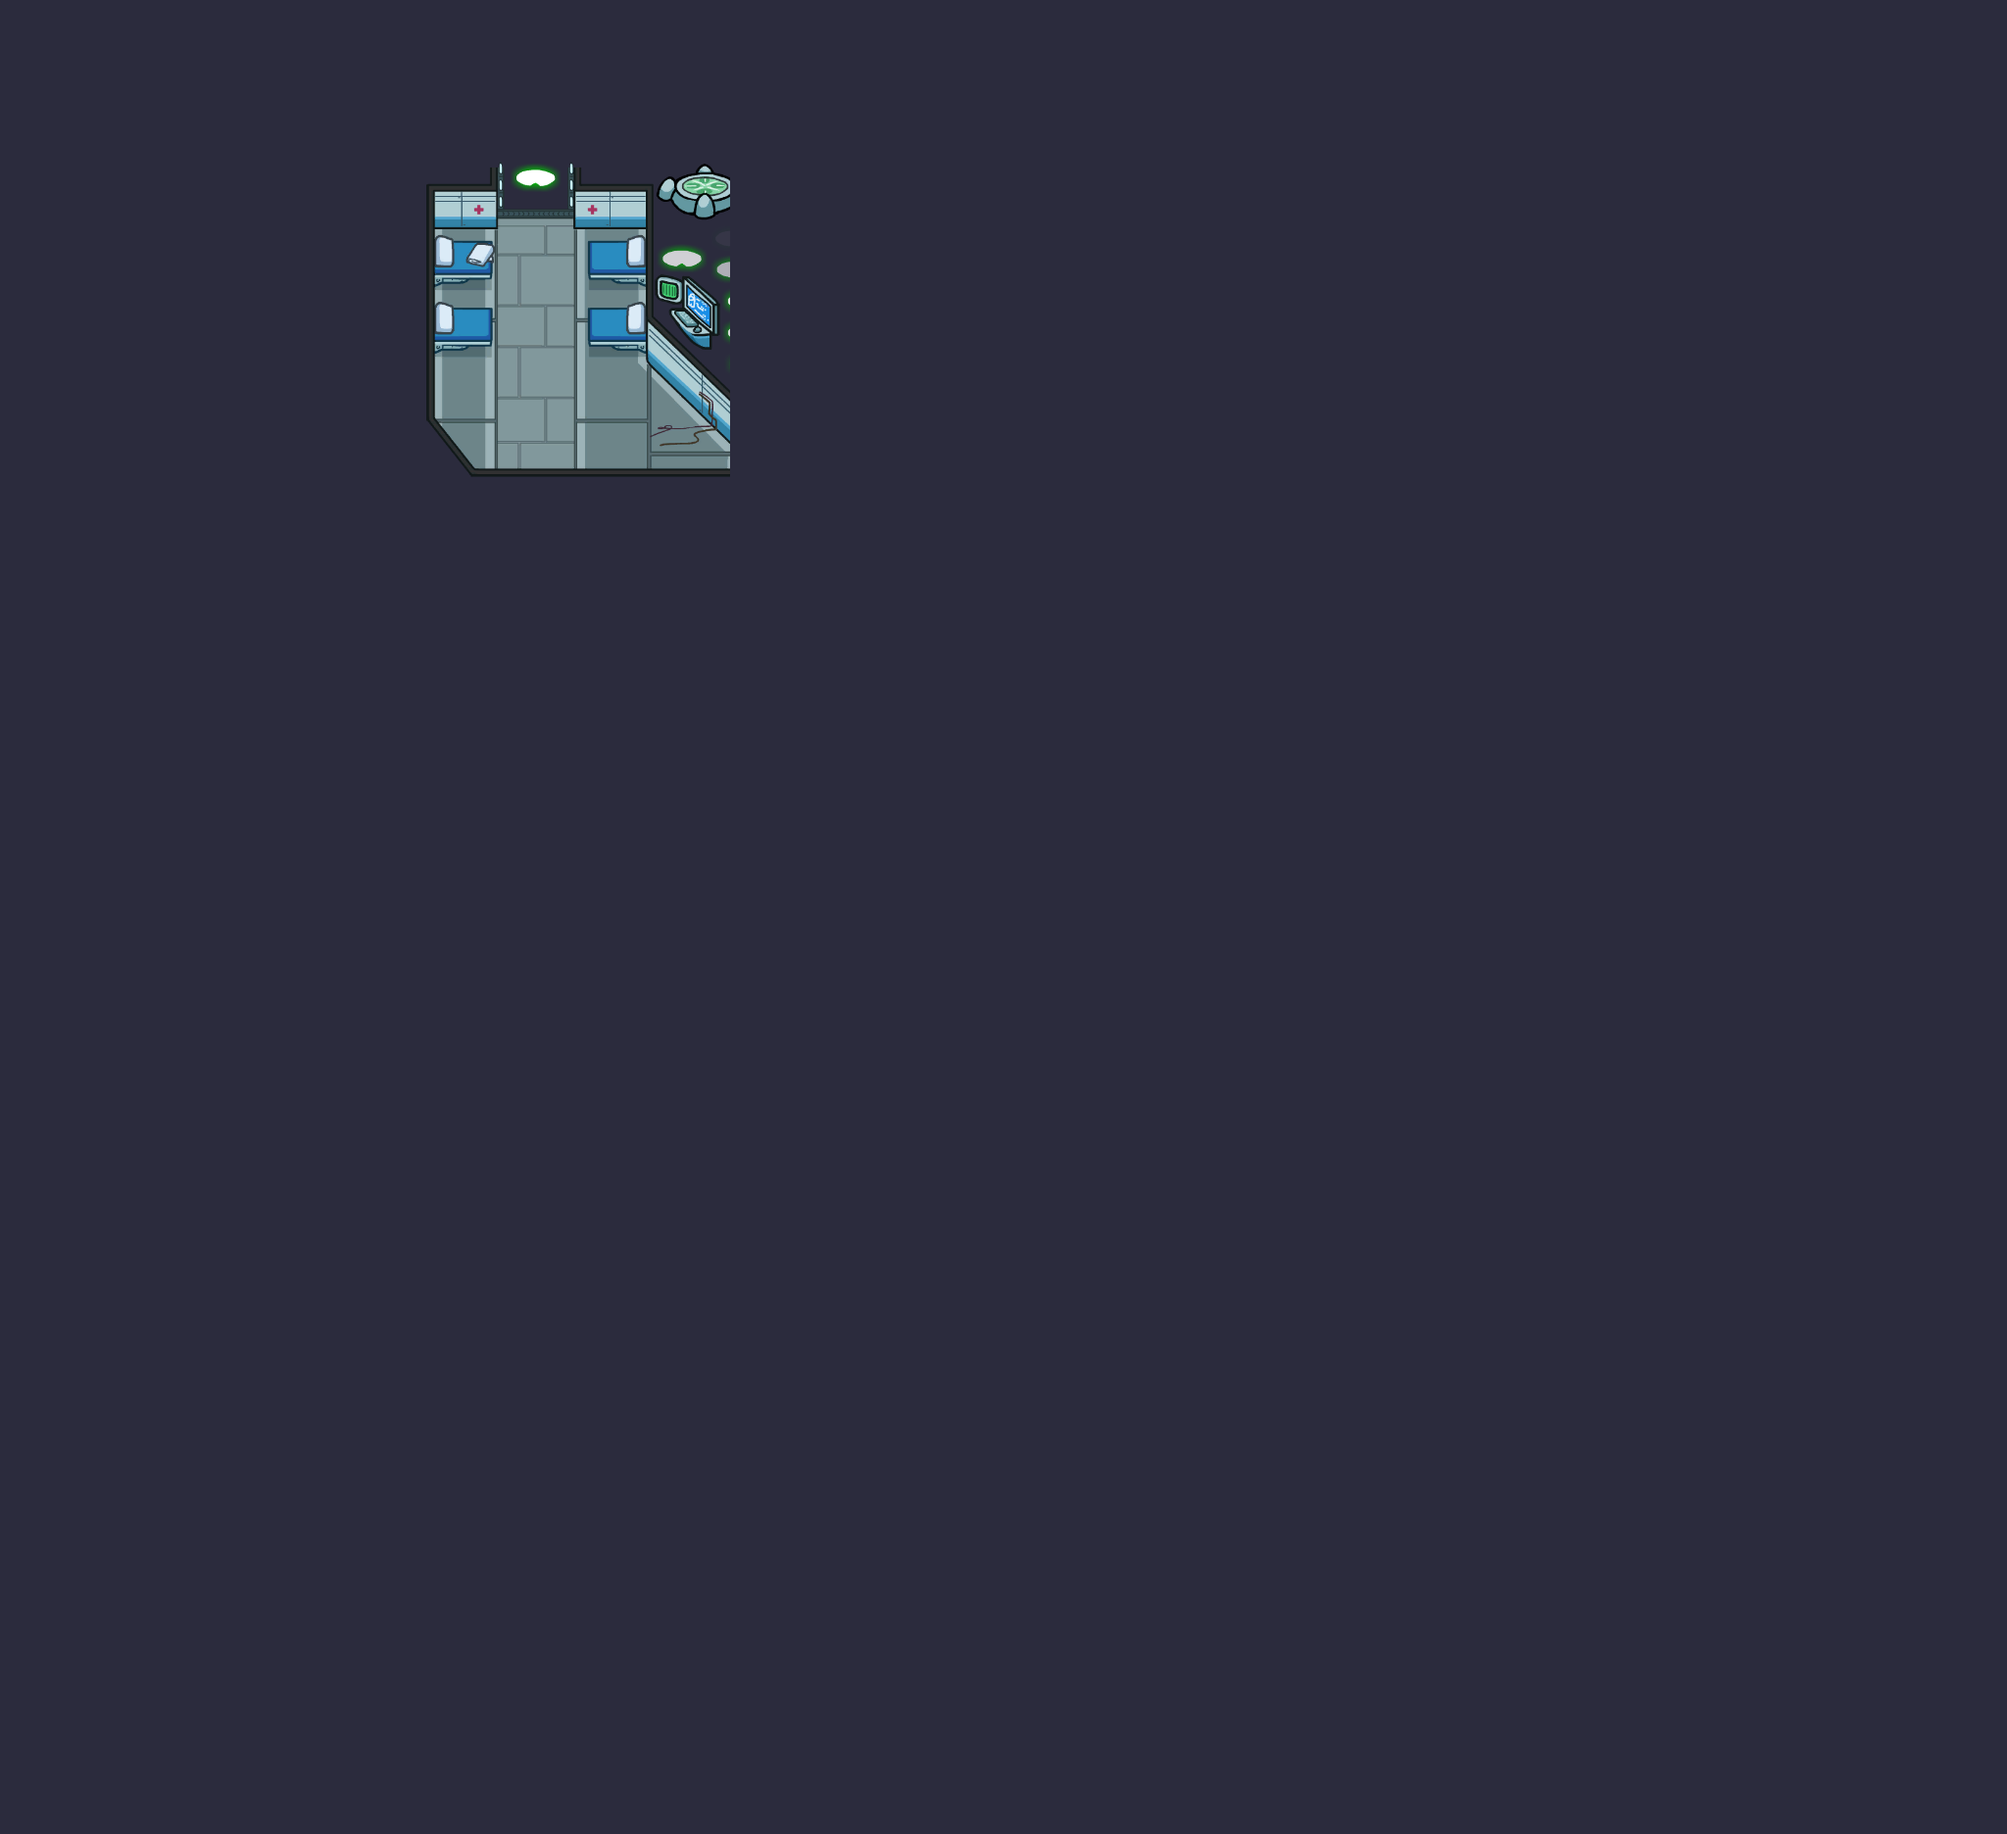
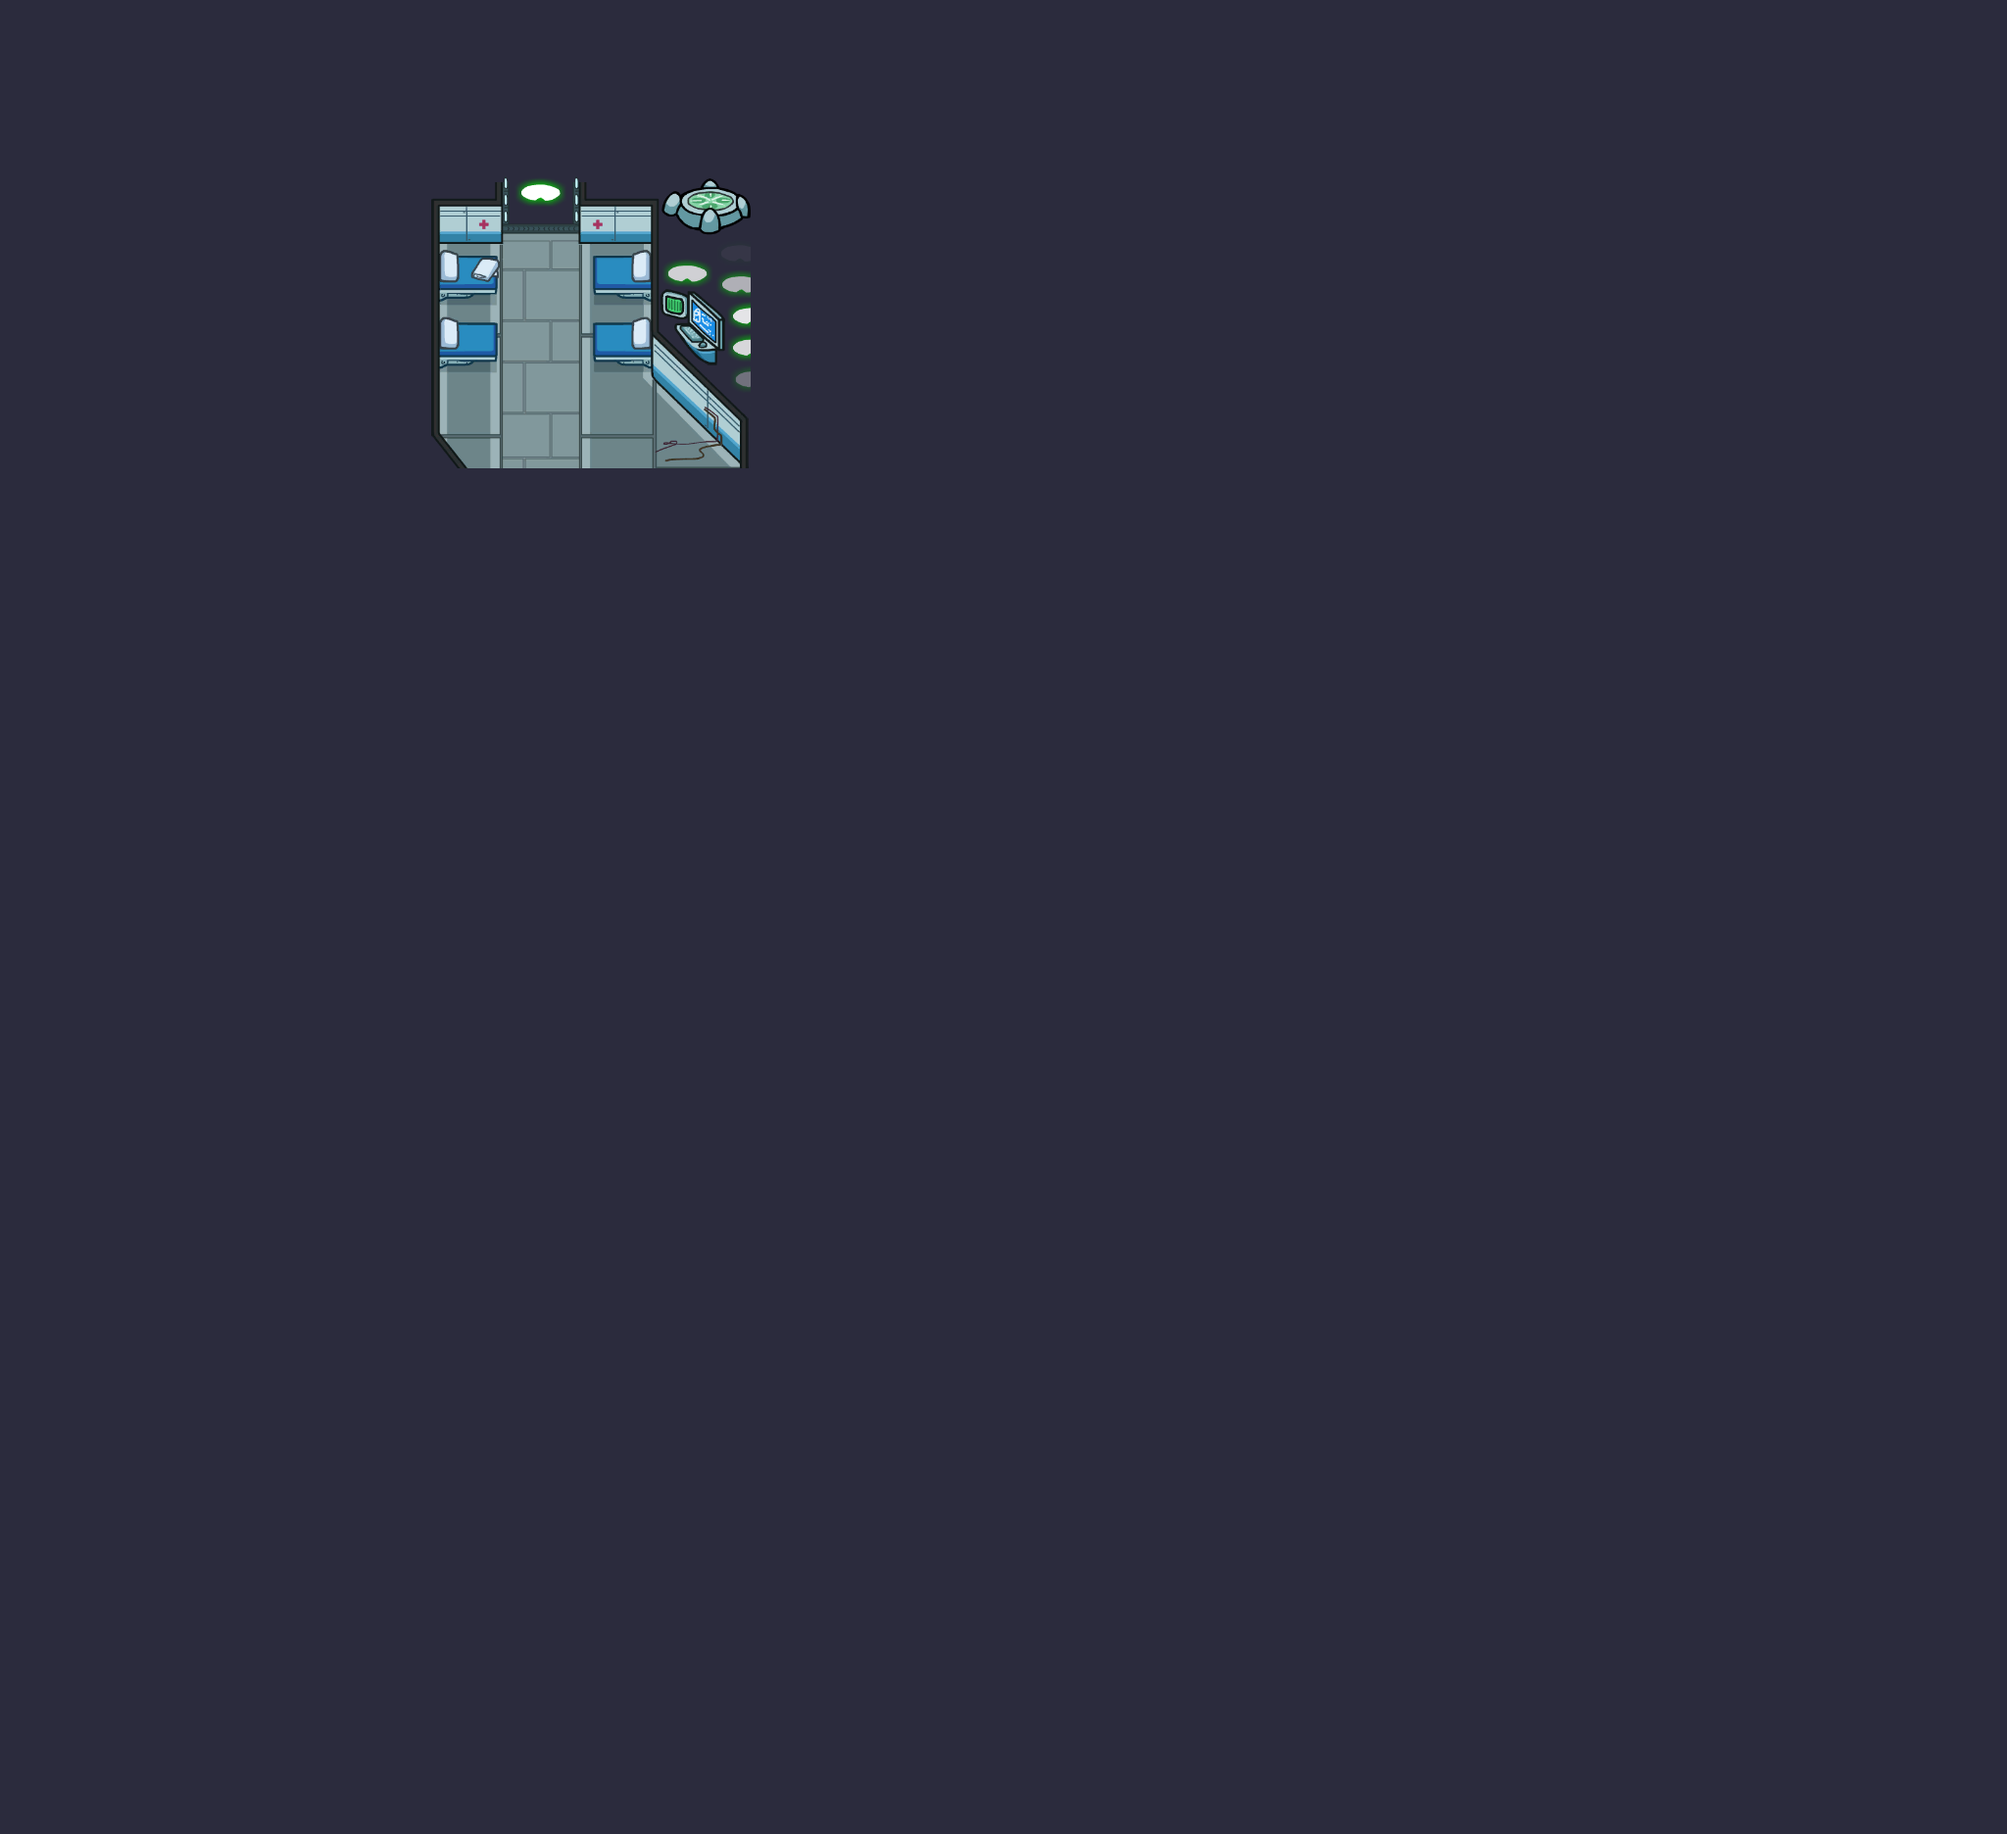
Update asset images and enhance layer configurations. Replaced multiple PNG files including collision-mask.png, skeld-map.png, and space-overlay.png. Adjusted layer properties in build-composite-map.ts for better alignment with collision geometry, including new Admin room layer and refined room dime

Changed region(s): [[0.1875, 0.0929, 0.375, 0.2788]]

diff --git a/scripts/build-composite-map.ts b/scripts/build-composite-map.ts
@@ -11,7 +11,7 @@ import fs from 'fs';
 import path from 'path';
 import { fileURLToPath } from 'url';
 import { PNG } from 'pngjs';
-import { MAP_W as CANVAS_W, MAP_H as CANVAS_H, ROOM_REGION_RECTS, type Rect } from '../shared/skeldGeometry';
+import { MAP_W as CANVAS_W, MAP_H as CANVAS_H, ROOM_REGION_RECTS, WALKABLE_ROOM_RECTS, CORRIDOR_RECTS, type Rect } from '../shared/skeldGeometry';
 
 const __dirname = path.dirname(fileURLToPath(import.meta.url));
 const PROJECT_ROOT = path.resolve(__dirname, '..');
@@ -101,9 +101,9 @@ const LAYER_STACK: Record<StageName, LayerConfig[]> = {
       x: 100,
       y: 180,
       scale: 0.70,
-      crop: { x: 0, y: 0, w: 500, h: 350 },
+      crop: { x: 0, y: 0, w: 500, h: 515 },
       enabled: true,
-      notes: 'Top engine variant from stacked engine texture.',
+      notes: 'Top engine section; crop height increased to fill 360px target height.',
     },
     {
       id: 'lowerEngine',
@@ -114,9 +114,9 @@ const LAYER_STACK: Record<StageName, LayerConfig[]> = {
       x: 100,
       y: 1100,
       scale: 0.70,
-      crop: { x: 0, y: 0, w: 500, h: 350 },
+      crop: { x: 0, y: 514, w: 500, h: 510 },
       enabled: true,
-      notes: 'Reuses same source/crop as upper engine.',
+      notes: 'Bottom engine section of stacked texture to match Lower Engine geometry.',
     },
     {
       id: 'cafeteria',
@@ -126,9 +126,9 @@ const LAYER_STACK: Record<StageName, LayerConfig[]> = {
       file: 'Cafeteria/Cafeteria-sharedassets0.assets-210.png',
       x: 635,
       y: 5,
-      scale: 0.69,
+      scale: 0.70,
       enabled: true,
-      notes: 'Large top-center room render.',
+      notes: 'Scaled to fill expanded cafeteria collision rects (union ≈650,20 to 1310,680).',
     },
     {
       id: 'weapons',
@@ -136,12 +136,12 @@ const LAYER_STACK: Record<StageName, LayerConfig[]> = {
       label: 'Weapons',
       roomName: 'Weapons',
       file: 'Weapons-sharedassets0.assets-201.png',
-      x: 1330,
-      y: 0,
-      scale: 0.55,
-      crop: { x: 0, y: 0, w: 630, h: 500 },
+      x: 1350,
+      y: 10,
+      scale: 0.70,
+      crop: { x: 30, y: 0, w: 490, h: 490 },
       enabled: true,
-      notes: 'Crops out the left turret room from broader sheet.',
+      notes: 'Tight crop of turret room, offset 30px left to trim pipe artifacts, match Weapons target.',
     },
     {
       id: 'navigation',
@@ -162,12 +162,12 @@ const LAYER_STACK: Record<StageName, LayerConfig[]> = {
       label: 'MedBay',
       roomName: 'MedBay',
       file: 'MedBay-sharedassets0.assets-110.png',
-      x: 435,
-      y: 165,
+      x: 440,
+      y: 180,
       scale: 0.62,
-      crop: { x: 0, y: 0, w: 500, h: 520 },
+      crop: { x: 0, y: 0, w: 525, h: 480 },
       enabled: true,
-      notes: 'Removes right-side animation frames.',
+      notes: 'Offset outward 10px so sprite walls align with collision edges; crop expanded to match (440,180,325,295) target.',
     },
     {
       id: 'o2',
@@ -201,11 +201,11 @@ const LAYER_STACK: Record<StageName, LayerConfig[]> = {
       label: 'Storage',
       roomName: 'Storage',
       file: 'Storage/room_storage-sharedassets0.assets-98.png',
-      x: 555,
+      x: 560,
       y: 1070,
       scale: 0.70,
       enabled: true,
-      notes: 'Full storage room detail pass.',
+      notes: 'Aligned to Storage target rect x position.',
     },
     {
       id: 'communications',
@@ -219,6 +219,19 @@ const LAYER_STACK: Record<StageName, LayerConfig[]> = {
       crop: { x: 0, y: 0, w: 423, h: 400 },
       enabled: true,
       notes: 'Tighter crop aligned to Communications target room.',
+    },
+    {
+      id: 'admin',
+      stage: 'roomInteriors',
+      label: 'Admin',
+      roomName: 'Admin',
+      file: 'compLabGreenHouseAdminWalls-sharedassets0.assets-67.png',
+      x: 1005,
+      y: 535,
+      scale: 0.93,
+      crop: { x: 0, y: 870, w: 390, h: 355 },
+      enabled: true,
+      notes: 'Admin room interior; offset 5px to align walls with collision rect (1010,540,355,310).',
     },
   ],
   foreground: [
@@ -259,19 +272,7 @@ const LAYER_STACK: Record<StageName, LayerConfig[]> = {
       enabled: false,
       notes: 'Exterior ship art; disabled by default.',
     },
-    {
-      id: 'compLabAdmin',
-      stage: 'optional',
-      label: 'CompLab Admin Floor Slice',
-      file: 'compLabGreenHouseAdminWalls-sharedassets0.assets-67.png',
-      x: 1010,
-      y: 540,
-      scale: 0.70,
-      crop: { x: 0, y: 760, w: 500, h: 560 },
-      roomName: 'Admin',
-      enabled: false,
-      notes: 'Admin floor/wall slice from compLab sheet aligned to Admin bounds.',
-    },
+    // compLabAdmin moved to roomInteriors stage as 'admin' layer
     {
       id: 'compLabGreenhouse',
       stage: 'optional',
@@ -436,9 +437,10 @@ function getFilePath(layer: LayerConfig): string {
 }
 
 function shouldRenderLayer(layer: LayerConfig): boolean {
-  if (!layer.enabled && layer.stage !== 'optional') return false;
-  if (layer.stage !== 'optional') return true;
-  return layer.enabled || includeOptional.has(layer.id);
+  // CLI --include-optional can force-enable any layer by id
+  if (includeOptional.has(layer.id)) return true;
+  if (!layer.enabled) return false;
+  return true;
 }
 
 function saveDebugImage(fileName: string, png: PNG): void {
@@ -553,6 +555,29 @@ function printAlignmentReport(renderedLayers: RenderedLayer[]): void {
   }
 }
 
+function drawRectOutline(dst: PNG, rect: Rect, r: number, g: number, b: number, a = 255): void {
+  const x1 = Math.max(0, rect.x);
+  const y1 = Math.max(0, rect.y);
+  const x2 = Math.min(dst.width - 1, rect.x + rect.w);
+  const y2 = Math.min(dst.height - 1, rect.y + rect.h);
+  for (let t = 0; t < 2; t++) {
+    for (let x = x1; x <= x2; x++) {
+      for (const y of [y1 + t, y2 - t]) {
+        if (y < 0 || y >= dst.height) continue;
+        const idx = (y * dst.width + x) * 4;
+        dst.data[idx] = r; dst.data[idx + 1] = g; dst.data[idx + 2] = b; dst.data[idx + 3] = a;
+      }
+    }
+    for (let y = y1; y <= y2; y++) {
+      for (const x of [x1 + t, x2 - t]) {
+        if (x < 0 || x >= dst.width) continue;
+        const idx = (y * dst.width + x) * 4;
+        dst.data[idx] = r; dst.data[idx + 1] = g; dst.data[idx + 2] = b; dst.data[idx + 3] = a;
+      }
+    }
+  }
+}
+
 function main() {
   console.log('Building composite Skeld map from sprite layers...');
   if (DEBUG) console.log('  DEBUG: writing per-layer and stage composite images');
@@ -589,6 +614,19 @@ function main() {
 
   if (REPORT) {
     printAlignmentReport(renderedLayers);
+  }
+
+  if (DEBUG) {
+    // Generate collision-rect overlay on top of the composite map
+    const overlay = clonePng(canvas);
+    for (const rect of WALKABLE_ROOM_RECTS) {
+      drawRectOutline(overlay, rect, 0, 255, 0); // green for rooms
+    }
+    for (const rect of CORRIDOR_RECTS) {
+      drawRectOutline(overlay, rect, 255, 255, 0); // yellow for corridors
+    }
+    saveDebugImage('collision-overlay.png', overlay);
+    console.log('  DEBUG: collision-overlay.png written');
   }
 
   console.log('\nComposite map built successfully.');

diff --git a/shared/skeldGeometry.ts b/shared/skeldGeometry.ts
@@ -17,10 +17,13 @@ export const MASK_W = Math.ceil(MAP_W / MASK_SCALE); // 512
 export const MASK_H = Math.ceil(MAP_H / MASK_SCALE); // 468
 
 // Room bounds in full map-pixel space.
-// Cafeteria is intentionally split into two rectangles to match walkable geometry.
+// Rects should match the visual floor boundaries of the room textures so that
+// walkable areas, visual walls, and collision all agree.
 export const ROOM_REGION_RECTS: NamedRect[] = [
-  { name: 'Cafeteria', x: 620, y: 25, w: 700, h: 360 },
-  { name: 'Cafeteria', x: 670, y: 5, w: 600, h: 405 },
+  // Cafeteria – two rects approximate the octagonal floor.
+  // Wide rect covers the main body; narrower rect covers the top/bottom necks.
+  { name: 'Cafeteria', x: 650, y: 80, w: 650, h: 550 },
+  { name: 'Cafeteria', x: 700, y: 20, w: 560, h: 660 },
   { name: 'Weapons', x: 1350, y: 10, w: 360, h: 350 },
   { name: 'Navigation', x: 1710, y: 1260, w: 270, h: 290 },
   { name: 'O2', x: 1770, y: 810, w: 220, h: 230 },
@@ -28,10 +31,10 @@ export const ROOM_REGION_RECTS: NamedRect[] = [
   { name: 'Upper Engine', x: 100, y: 180, w: 350, h: 360 },
   { name: 'Lower Engine', x: 100, y: 1100, w: 350, h: 360 },
   { name: 'Security', x: 290, y: 700, w: 240, h: 250 },
-  { name: 'MedBay', x: 450, y: 190, w: 310, h: 280 },
+  { name: 'MedBay', x: 440, y: 180, w: 325, h: 295 },
   { name: 'Electrical', x: 380, y: 700, w: 330, h: 320 },
-  { name: 'Storage', x: 560, y: 1070, w: 430, h: 400 },
-  { name: 'Admin', x: 1010, y: 540, w: 350, h: 300 },
+  { name: 'Storage', x: 560, y: 1070, w: 430, h: 300 },
+  { name: 'Admin', x: 1010, y: 540, w: 355, h: 310 },
   { name: 'Shields', x: 1070, y: 890, w: 320, h: 310 },
   { name: 'Communications', x: 700, y: 1260, w: 340, h: 300 },
 ];
@@ -45,33 +48,45 @@ export const WALKABLE_ROOM_RECTS: Rect[] = ROOM_REGION_RECTS.map(({ x, y, w, h }
 
 // Corridors connecting rooms, in full map-pixel space.
 export const CORRIDOR_RECTS: Rect[] = [
-  { x: 920, y: 380, w: 160, h: 100 },
-  { x: 1180, y: 380, w: 140, h: 100 },
-  { x: 1310, y: 80, w: 60, h: 240 },
-  { x: 1620, y: 340, w: 120, h: 100 },
-  { x: 1640, y: 280, w: 110, h: 320 },
-  { x: 1660, y: 570, w: 110, h: 260 },
-  { x: 1750, y: 700, w: 90, h: 140 },
-  { x: 1740, y: 1020, w: 100, h: 260 },
-  { x: 1730, y: 860, w: 60, h: 120 },
-  { x: 1730, y: 1190, w: 80, h: 100 },
-  { x: 1350, y: 480, w: 300, h: 90 },
-  { x: 1440, y: 560, w: 230, h: 80 },
-  { x: 1340, y: 830, w: 340, h: 80 },
-  { x: 990, y: 1200, w: 420, h: 90 },
-  { x: 1100, y: 680, w: 120, h: 200 },
+  // Cafeteria south exits to main horizontal corridor
+  { x: 750, y: 670, w: 180, h: 80 },
+  { x: 1020, y: 670, w: 180, h: 80 },
+  // Main horizontal corridor (upper)
   { x: 300, y: 440, w: 200, h: 80 },
   { x: 500, y: 440, w: 200, h: 80 },
   { x: 420, y: 440, w: 600, h: 100 },
   { x: 920, y: 440, w: 450, h: 100 },
+  // Cafeteria to weapons connector
+  { x: 1310, y: 80, w: 60, h: 280 },
+  // Weapons to right corridor
+  { x: 1620, y: 340, w: 120, h: 100 },
+  { x: 1640, y: 280, w: 110, h: 320 },
+  // Right vertical corridor (weapons → admin → shields → nav)
+  { x: 1350, y: 480, w: 300, h: 90 },
+  { x: 1440, y: 560, w: 230, h: 80 },
+  { x: 1660, y: 570, w: 110, h: 260 },
+  { x: 1750, y: 700, w: 90, h: 140 },
+  { x: 1730, y: 860, w: 60, h: 120 },
+  { x: 1340, y: 830, w: 340, h: 80 },
+  { x: 1740, y: 1020, w: 100, h: 260 },
+  { x: 1730, y: 1190, w: 80, h: 100 },
+  // Admin → shields vertical link
+  { x: 1100, y: 680, w: 120, h: 220 },
+  // Left vertical corridor (engines → reactor → security)
+  { x: 200, y: 520, w: 120, h: 200 },
   { x: 280, y: 620, w: 100, h: 100 },
   { x: 380, y: 740, w: 50, h: 120 },
-  { x: 540, y: 1000, w: 120, h: 100 },
-  { x: 300, y: 1200, w: 200, h: 80 },
-  { x: 700, y: 1380, w: 200, h: 80 },
-  { x: 200, y: 520, w: 120, h: 200 },
   { x: 200, y: 930, w: 120, h: 200 },
+  // Storage → comms link
+  { x: 540, y: 1000, w: 120, h: 100 },
+  { x: 700, y: 1350, w: 200, h: 80 },
+  // Lower engine → storage
+  { x: 300, y: 1200, w: 200, h: 80 },
+  // Shields → lower corridor
+  { x: 990, y: 1200, w: 420, h: 90 },
+  // Admin → hall
   { x: 1000, y: 480, w: 120, h: 120 },
+  // Shields → lower
   { x: 1060, y: 820, w: 120, h: 100 },
   { x: 900, y: 1050, w: 200, h: 100 },
 ];
